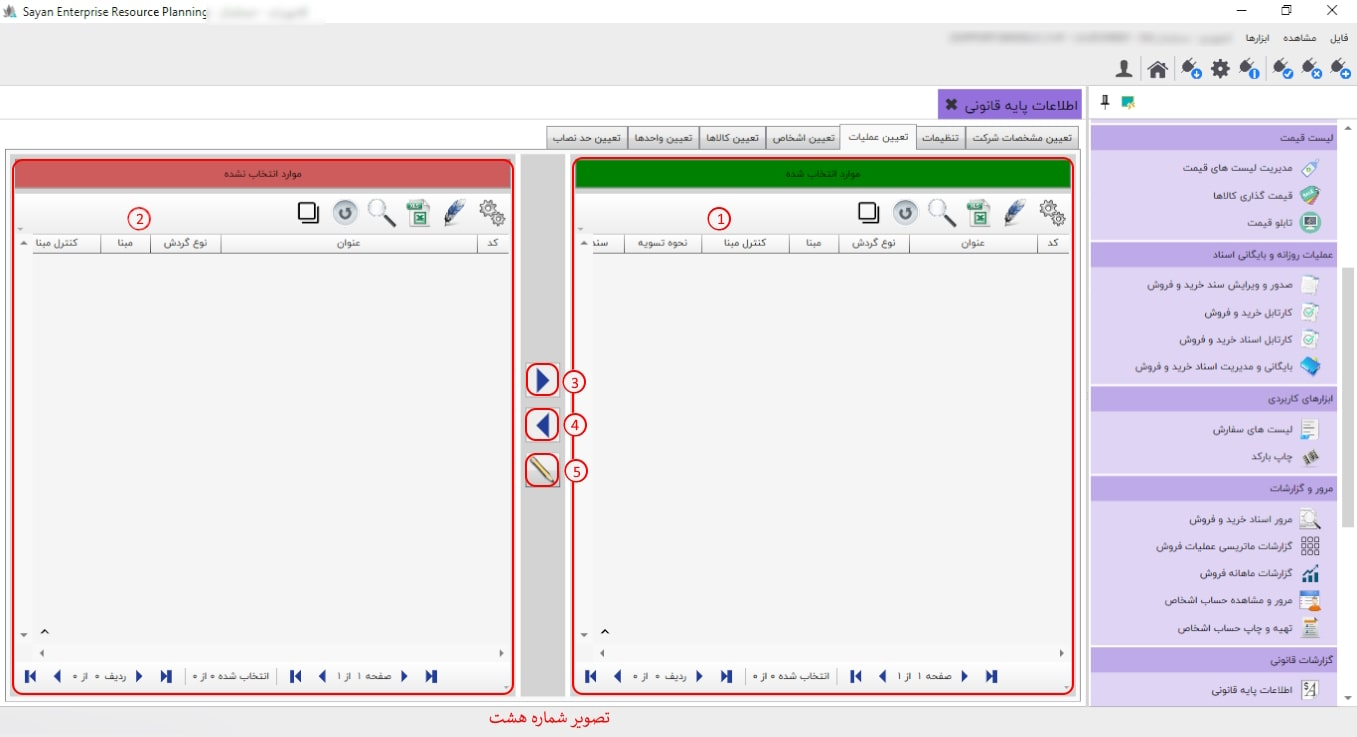
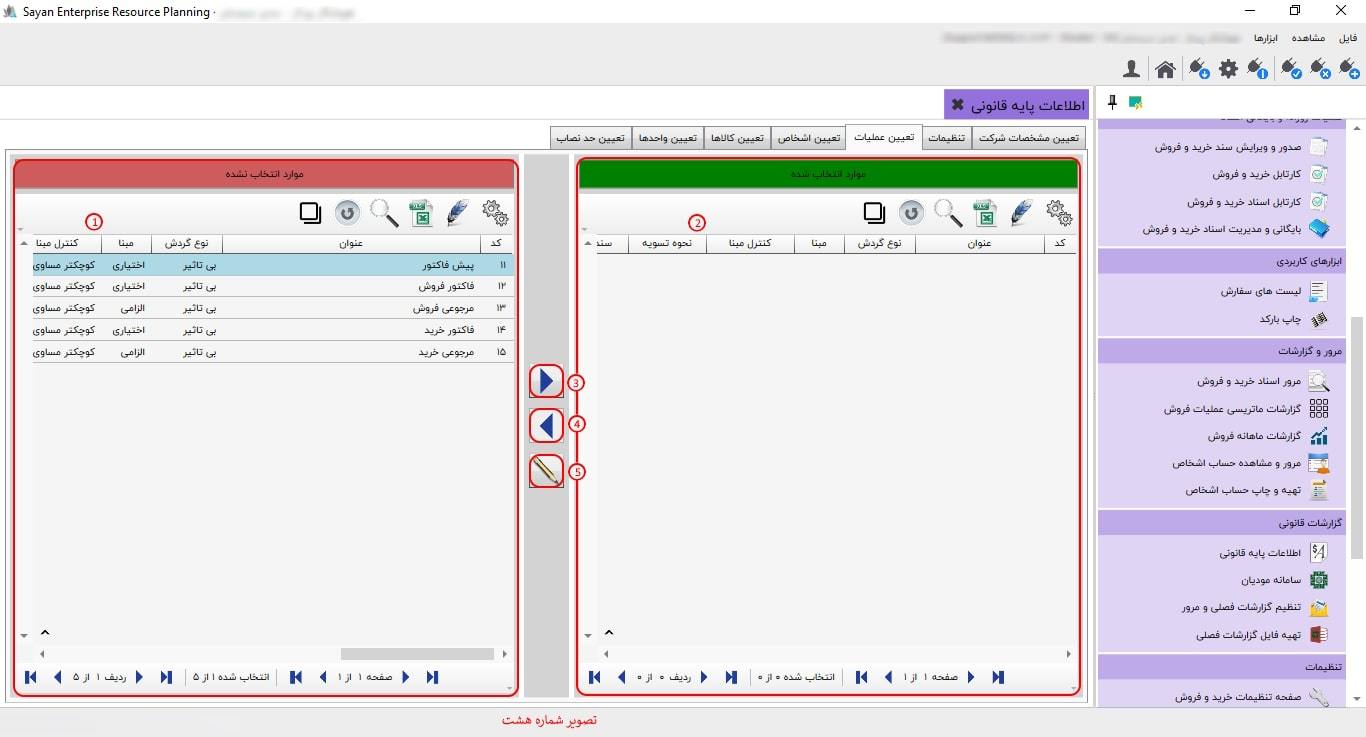
تغیرات

diff --git a/Help/fa-IR/_06_خرید و فروش/_19_اطلاعات پایه قانونی/Index.html b/Help/fa-IR/_06_خرید و فروش/_19_اطلاعات پایه قانونی/Index.html
@@ -174,10 +174,10 @@
 	</p>
 	<img class="FitPic" src="l8.jpg" />
 	<p>
-		-موارد انتخابشده (کادر شماره یک): در این بخش میتوانید موارد انتخابشده را به موارد انتخابنشده انتقال دهید. 
+		-موارد انتخابنشده (کادر شماره یک): در این کادر، تمام عملیاتهای خرید و فروشی که هنوز در گزارشهای قانونی مورد استفاده قرار نگرفتهاند، نمایش داده میشود.            
 	</p>
 	<p>
-		-موارد انتخابنشده (کادر شماره دو): این فیلد این امکان را به شما میدهد که موارد انتخابنشده را به موارد انتخابشده منتقل کنید. 
+		-موارد انتخابشده (کادر شماره دو): لیست عملیاتهای خرید و فروش مورد استفاده در گزارشهای قانونی، در موارد انتخابشده نمایش داده میشود. میتوانید با انتخاب کادر شماره ۵، جزئیات و تنظیمات هر عملیات را مشاهده یا تغییر دهید.
 	</p>
 		<img class="Icon" src="i3.png"/>
 	<p>
